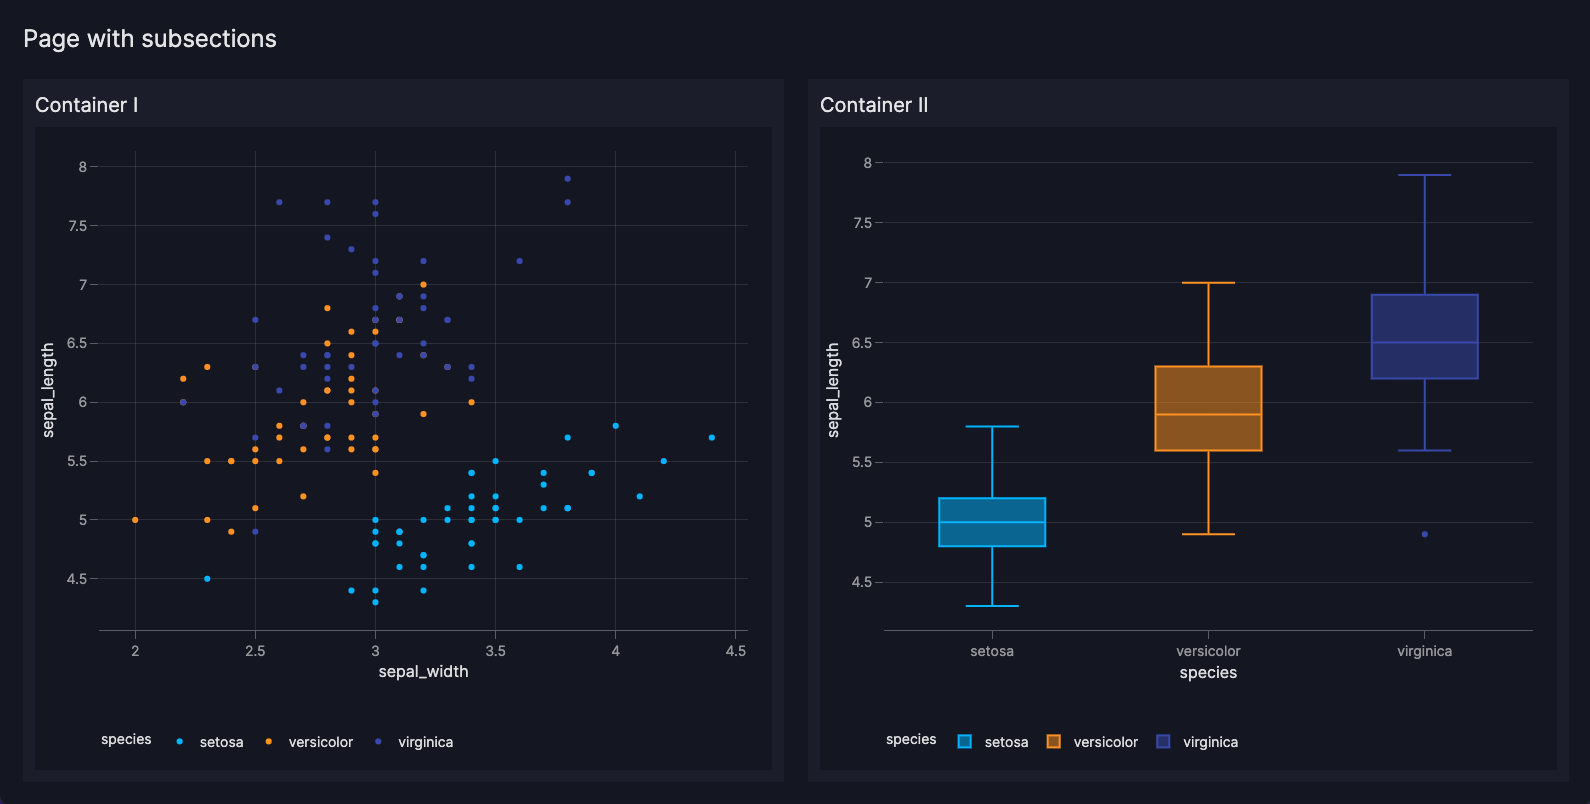
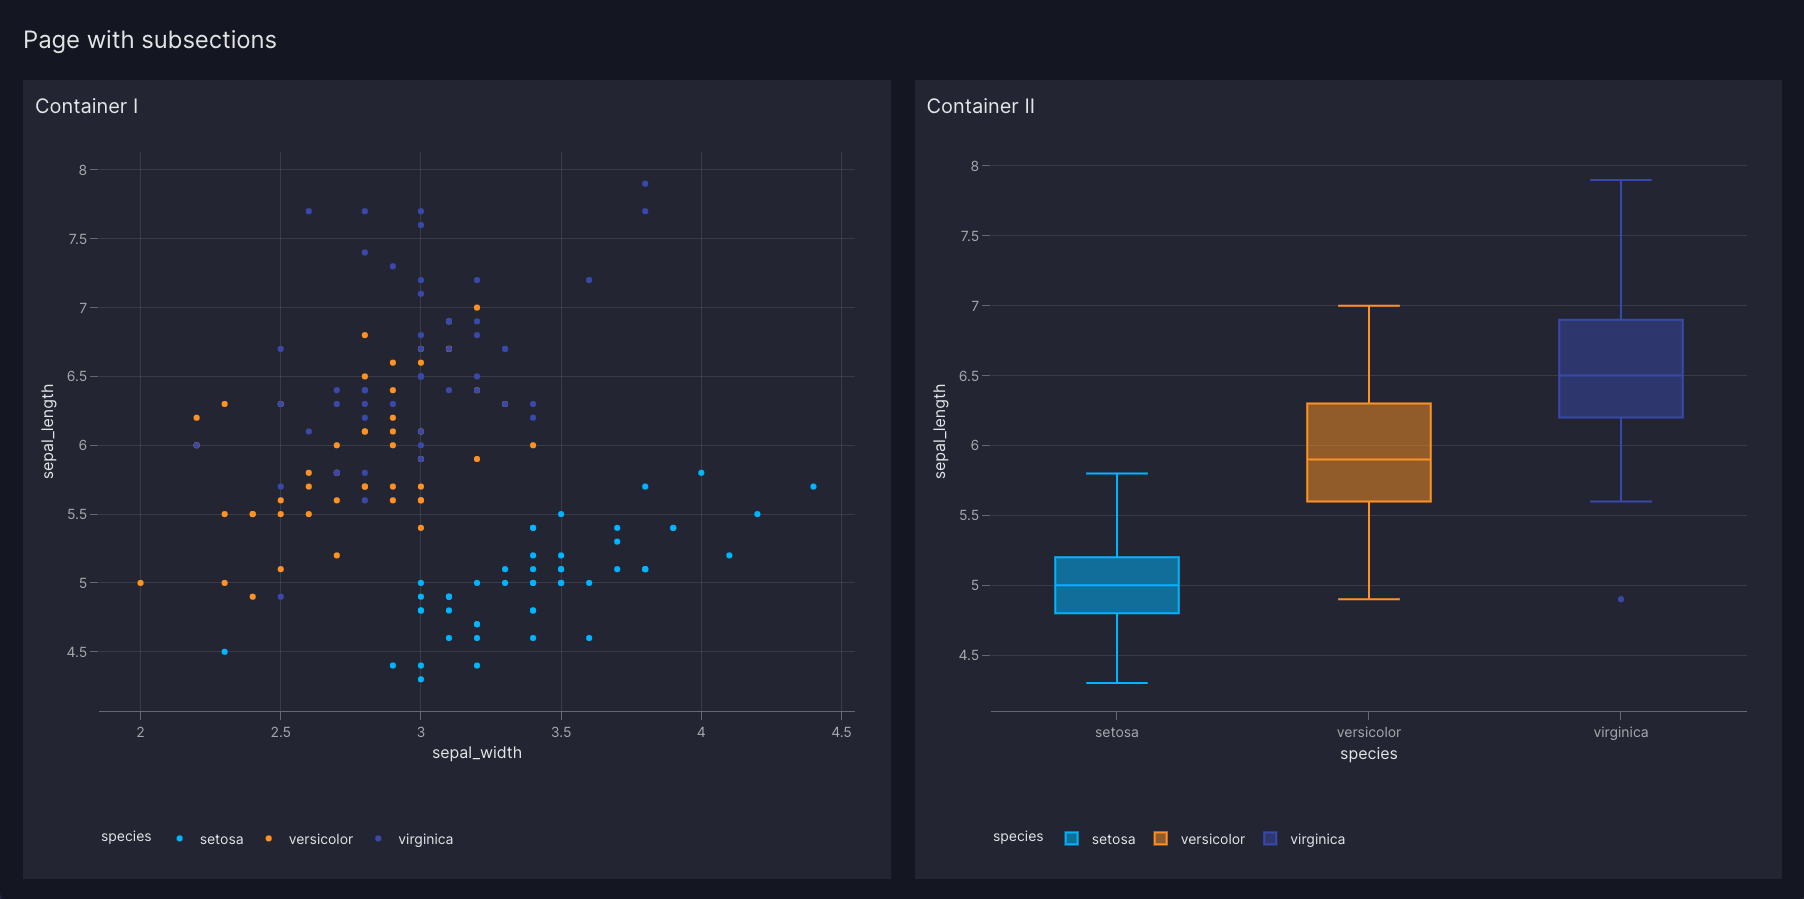
Update docs and lint

diff --git a/vizro-core/examples/scratch_dev/assets/css/custom.css b/vizro-core/examples/scratch_dev/assets/css/custom.css
@@ -1,3 +1,17 @@
 #page-header {
   padding-left: 8px;
 }
+
+[data-bs-theme="dark"] {
+            --container-bg-color: #232632;
+}
+
+[data-bs-theme="light"] {
+    --container-bg-color: #F5F6F6;
+}
+
+/* Use the custom variable var(--container-bg-color) */
+.page-component-container {
+    background: var(--container-bg-color);
+    padding: 12px;
+}

diff --git a/vizro-core/src/vizro/models/_components/graph.py b/vizro-core/src/vizro/models/_components/graph.py
@@ -211,9 +211,12 @@ class Graph(VizroBaseModel):
                                 "yaxis": {"visible": False},
                             }
                         ),
-                        config={"autosizable": True, "frameMargins": 0, "responsive": True,
-                                'modeBarButtonsToRemove': ['toImage']
-                                },
+                        config={
+                            "autosizable": True,
+                            "frameMargins": 0,
+                            "responsive": True,
+                            "modeBarButtonsToRemove": ["toImage"],
+                        },
                     ),
                     dcc.Markdown(self.footer, className="figure-footer") if self.footer else None,
                 ],

diff --git a/vizro-core/examples/scratch_dev/app.py b/vizro-core/examples/scratch_dev/app.py
@@ -4,8 +4,21 @@ import vizro.models as vm
 import vizro.plotly.express as px
 from vizro import Vizro
 
+iris = px.data.iris()
+
 page = vm.Page(
-    title="foo", components=[vm.Graph(figure=px.scatter(data_frame=px.data.iris(), x="sepal_width", y="sepal_length"))]
+    title="Page with subsections",
+    layout=vm.Layout(grid=[[0, 1]]),
+    components=[
+        vm.Container(
+            title="Container I",
+            components=[vm.Graph(figure=px.scatter(iris, x="sepal_width", y="sepal_length", color="species"))],
+        ),
+        vm.Container(
+            title="Container II",
+            components=[vm.Graph(figure=px.box(iris, x="species", y="sepal_length", color="species"))],
+        ),
+    ],
 )
 
 dashboard = vm.Dashboard(pages=[page])

diff --git a/vizro-core/docs/pages/user-guides/custom-css.md b/vizro-core/docs/pages/user-guides/custom-css.md
@@ -355,7 +355,7 @@ By default, the logo appears in the top left corner of the dashboard. You can mo
 
 If you want to make the subsections of your dashboard stand out more, you can do this by placing your components inside a [Container](container.md) and changing the container's styling, for example, background color, borders, padding, etc.
 
-To do this, you need to change the container's CSS class. Using the DevTool, as explained in the section on [identifying the correct CSS selector](#identify-the-correct-css-selector), you'll find that the CSS class for the `Container` is `page-component-container`. You can then use this class to set a new `background-color` and `padding`.
+To do this, you need to change the container's CSS class. Using the DevTool, as explained in the section on [identifying the correct CSS selector](#identify-the-correct-css-selector), you'll find that the CSS class for the `Container` is `page-component-container`. You can then use this class to set a new `background-color` and `padding`. The charts will automatically align with the background colors of the container as they are transparent.
 
 !!! example "Style a container"
     === "custom.css"
@@ -438,31 +438,6 @@ To do this, you need to change the container's CSS class. Using the DevTool, as 
 
     === "Result"
         [![StyleContainer]][stylecontainer]
-
-You will notice that the background colors of the charts are different. To align it with the colors of the container, you can make the charts' background transparent.
-
-To make the background of all charts transparent:
-
-```py
-import plotly.io as pio
-
-pio.templates["vizro_dark"]["layout"]["paper_bgcolor"] = "rgba(0, 0, 0, 0)"
-pio.templates["vizro_light"]["layout"]["paper_bgcolor"] = "rgba(0, 0, 0, 0)"
-pio.templates["vizro_dark"]["layout"]["plot_bgcolor"] = "rgba(0, 0, 0, 0)"
-pio.templates["vizro_light"]["layout"]["plot_bgcolor"] = "rgba(0, 0, 0, 0)"
-```
-
-To make the background of selected charts transparent:
-
-```py
-@capture(graph)
-def custom_chart(data_frame):
-    ...
-    fig.update_layout(paper_bgcolor="rgba(0, 0, 0, 0)", plot_bgcolor="rgba(0, 0, 0, 0)")
-    return fig
-```
-
-![Transparent charts](../../assets/user_guides/custom_css/transparent-charts.png)
 
 [assetscss]: ../../assets/user_guides/assets/css_change.png
 [cardcss]: ../../assets/user_guides/assets/css_change_card.png
